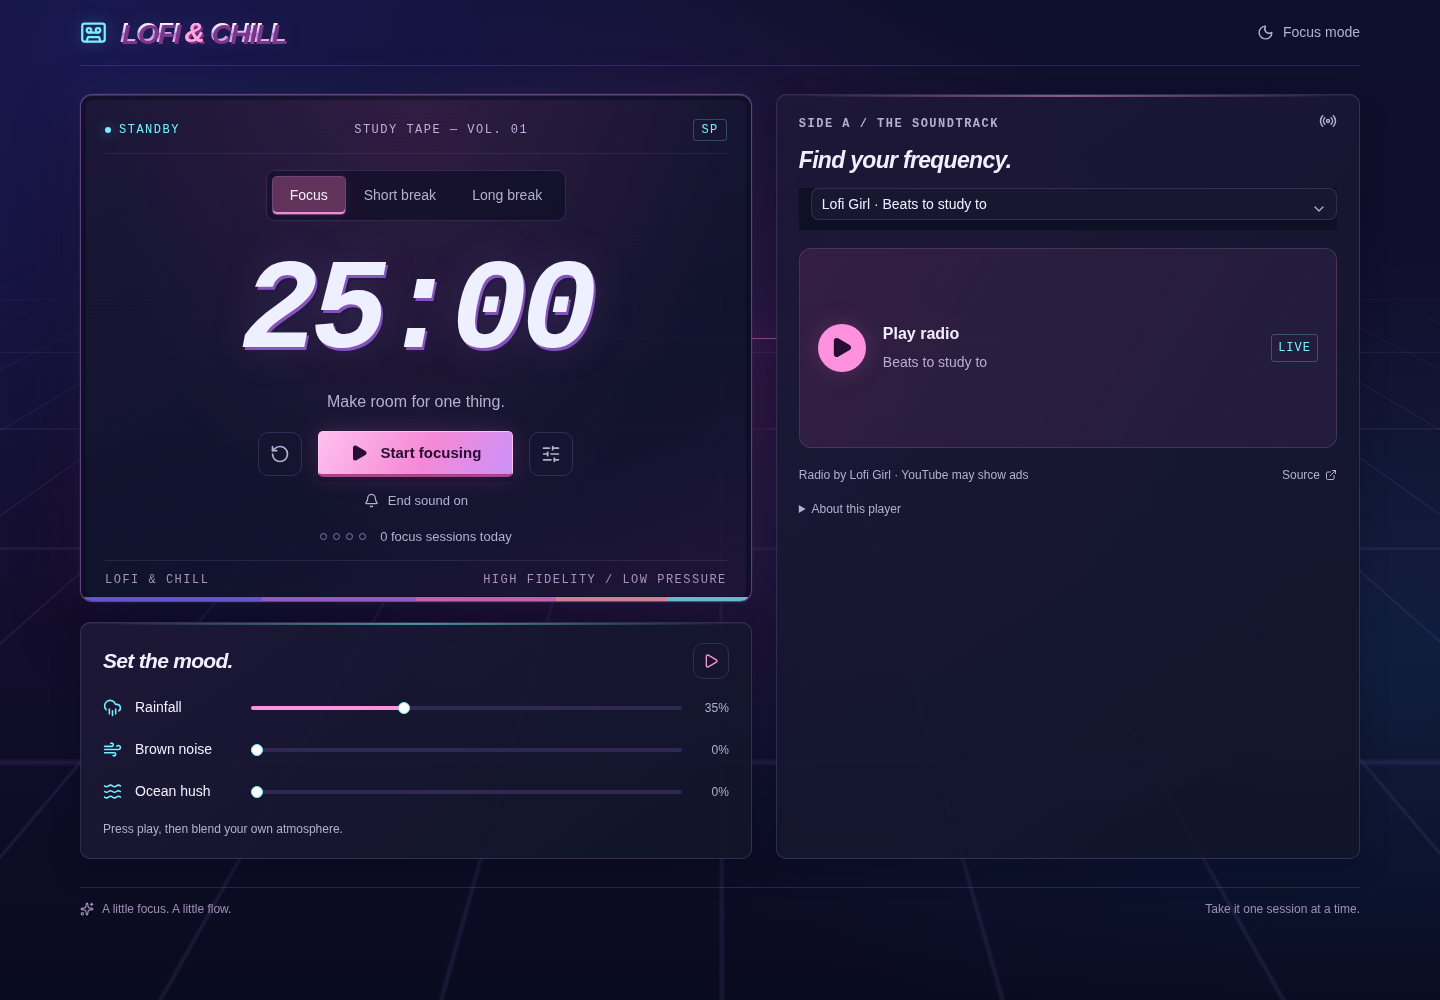
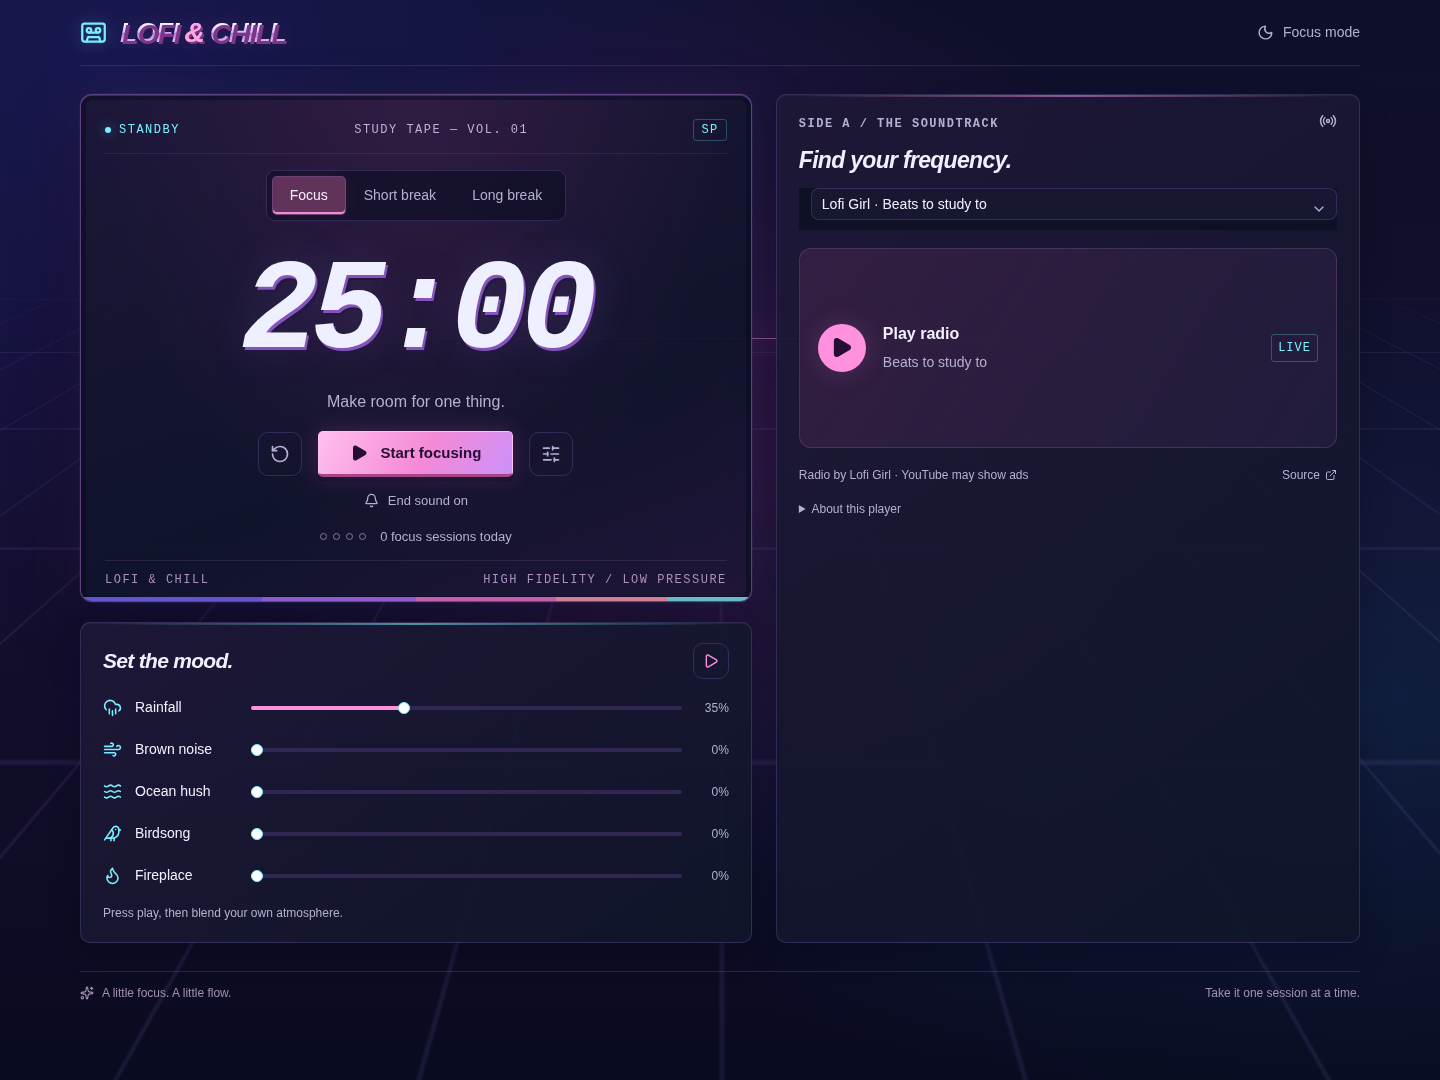
docs: update timer behavior and ambient mixer preview

diff --git a/README.md b/README.md
@@ -6,9 +6,9 @@ A synthwave study desk with a Pomodoro timer, YouTube lofi radio, and ambient so
 
 ## Features
 
-- Adjustable focus sessions and breaks, with a gentle end sound.
+- Adjustable focus sessions and breaks, with a gentle end sound. Switching timer tabs pauses and preserves progress; return and press Resume to continue.
 - Four YouTube radio stations that play directly on the page.
-- Real rain, brown noise, and ocean sounds with individual volume controls.
+- Real rain, birdsong, and fireplace loops, plus brown noise and ocean sounds, with individual volume controls.
 - Focus mode and a daily session count.
 - Preferences saved in your browser.
 
